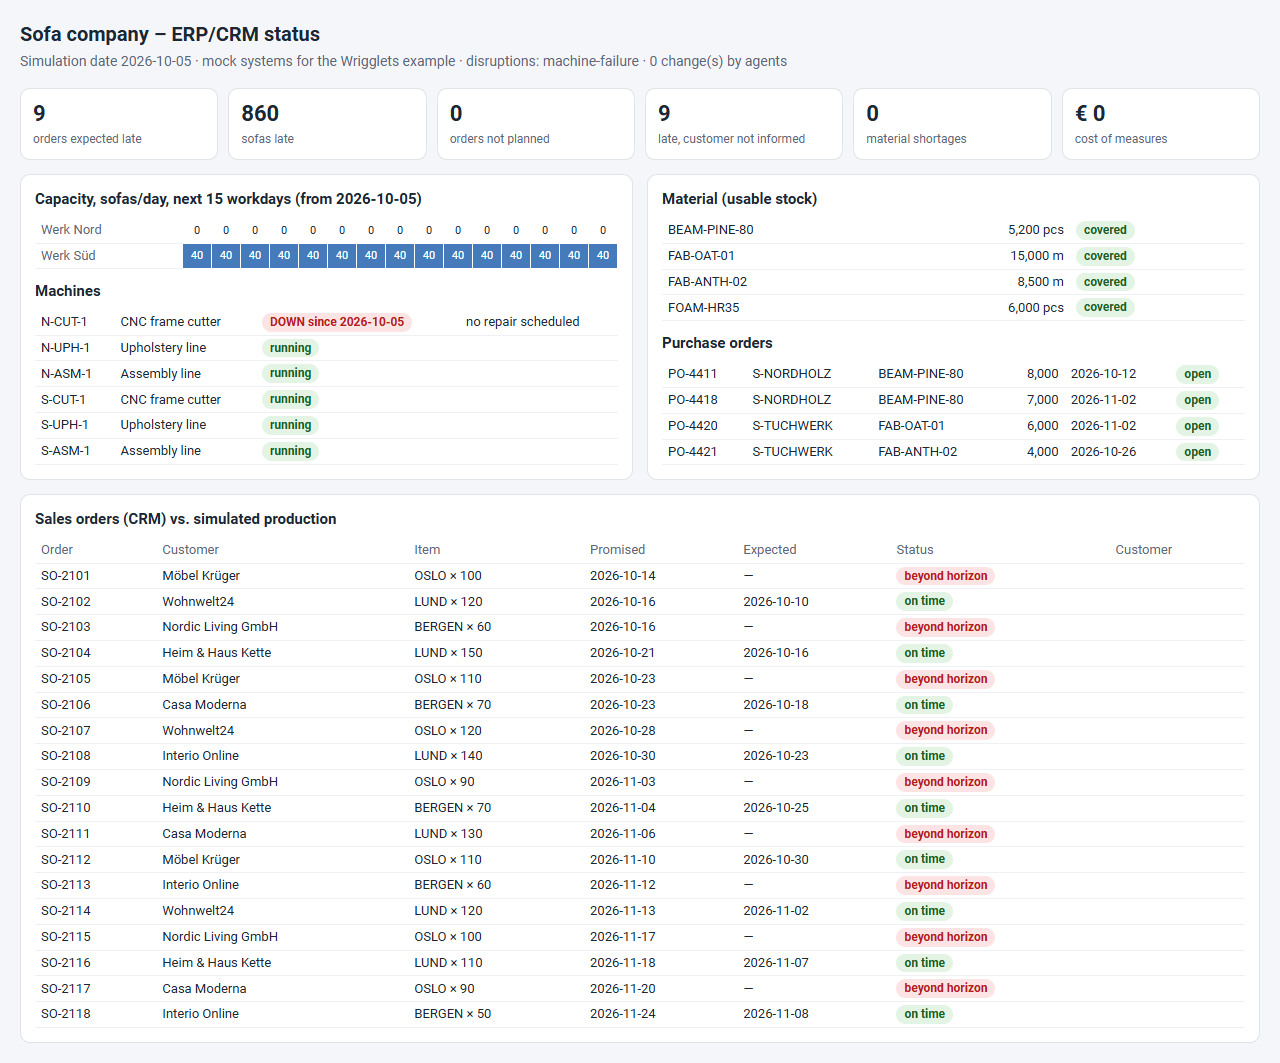
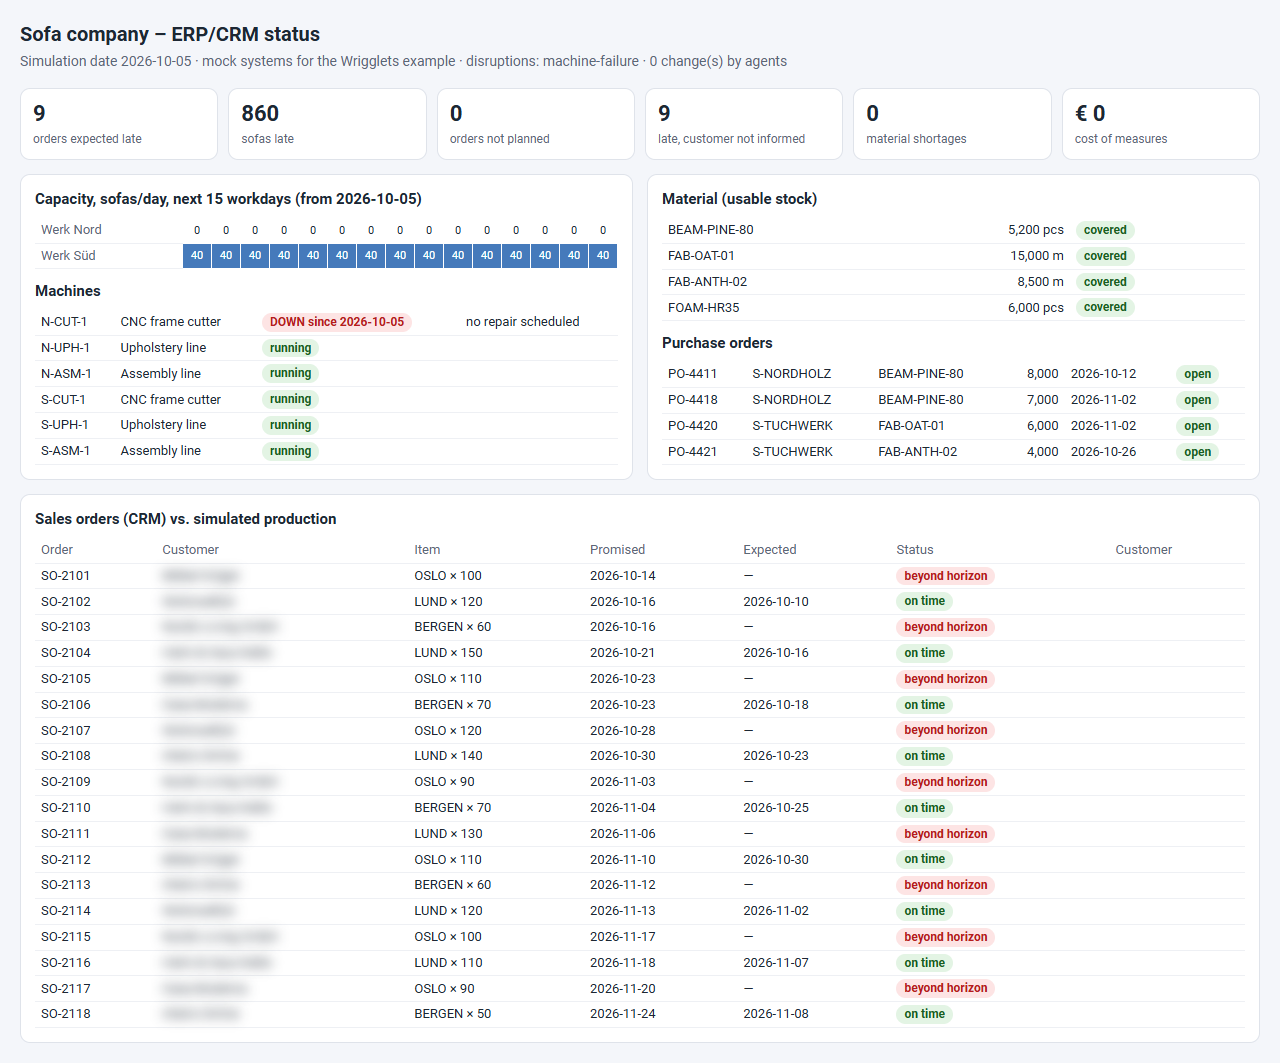
simulation protocol

Changed region(s): [[0.125, 0.5278, 0.2188, 0.9624]]

diff --git a/README.md b/README.md
@@ -295,7 +295,7 @@ OpenAI's own materials before relying on details.
 | `apps/agent-server`, `apps/agent-web` | the agent (API/BFF, worker, harness supervisor; UI) |
 | `apps/admin-server`, `apps/admin-web` | control plane and admin console (runs in the temporal container) |
 | `apps/oauth-server`, `apps/oauth-web` | OpenID Connect server and sign-in pages |
-| `apps/mcp-gateway`, `apps/mcp-demo`, `apps/mcp-web` | MCP gateway (tools, kill switch, A2A broker), example upstream and internet access (search, fetch) |
+| `apps/mcp-gateway`, `apps/mcp-demo`, `apps/mcp-web`, `apps/mcp-wiki` | MCP gateway (tools, kill switch, A2A broker), example upstream, internet access (search, fetch) and the company wiki people govern |
 | `packages/secrets` | Key Vault access (`@azure/keyvault-secrets`), works against the emulator and Azure |
 | `packages/*` | shared DTOs, workflows, codec, harness config, OIDC RP, MUI theme/components |
 | `infra/docker` | multi-target Dockerfile and agent entrypoint |

diff --git a/agentic-mitigations.md b/agentic-mitigations.md
@@ -132,6 +132,8 @@ a mitigation either works in the simulation or it does not.
 
 ![ERP/CRM status page, baseline](docs/images/mitigations/s0-erp-baseline.png)
 
+Customer names are blurred in the screenshots of this status page (`/dashboard?blur=customers`).
+
 Rules the agents work with: a regular worker makes 20 sofas a day, a temporary worker 15 (available three workdays after
 booking), a factory tops out at 48 a day, overtime adds 25 % (EUR 1,400 per factory and day); a machine that is down stops the
 whole factory; a repair starts only when the spare part has arrived and takes two workdays; suppliers have lead times, prices,
